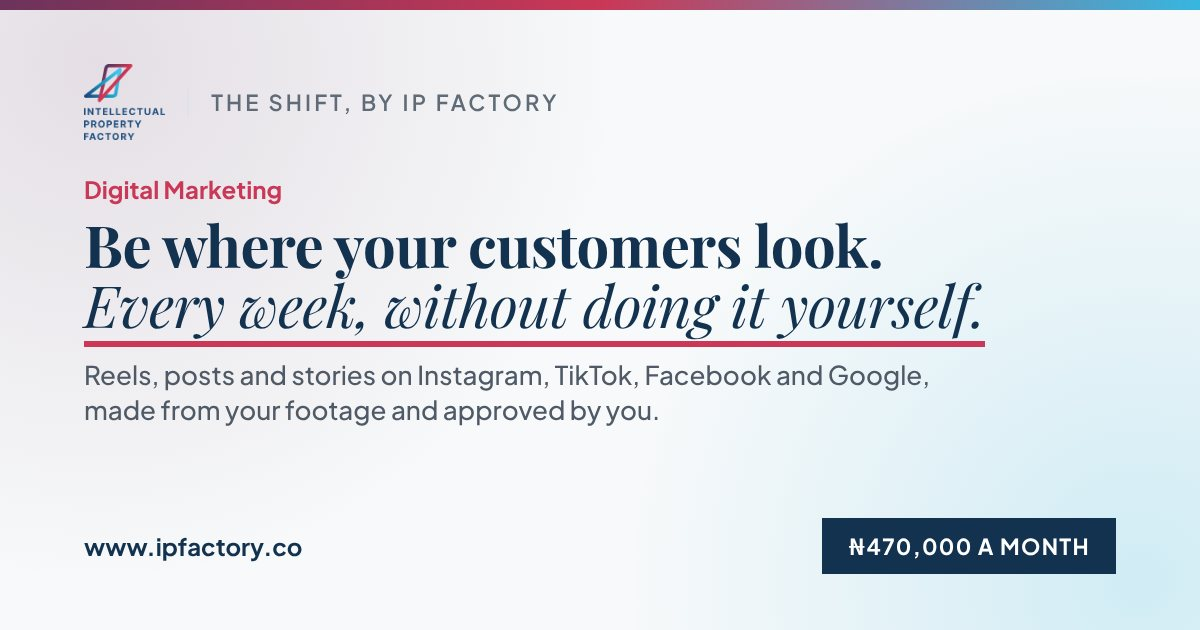
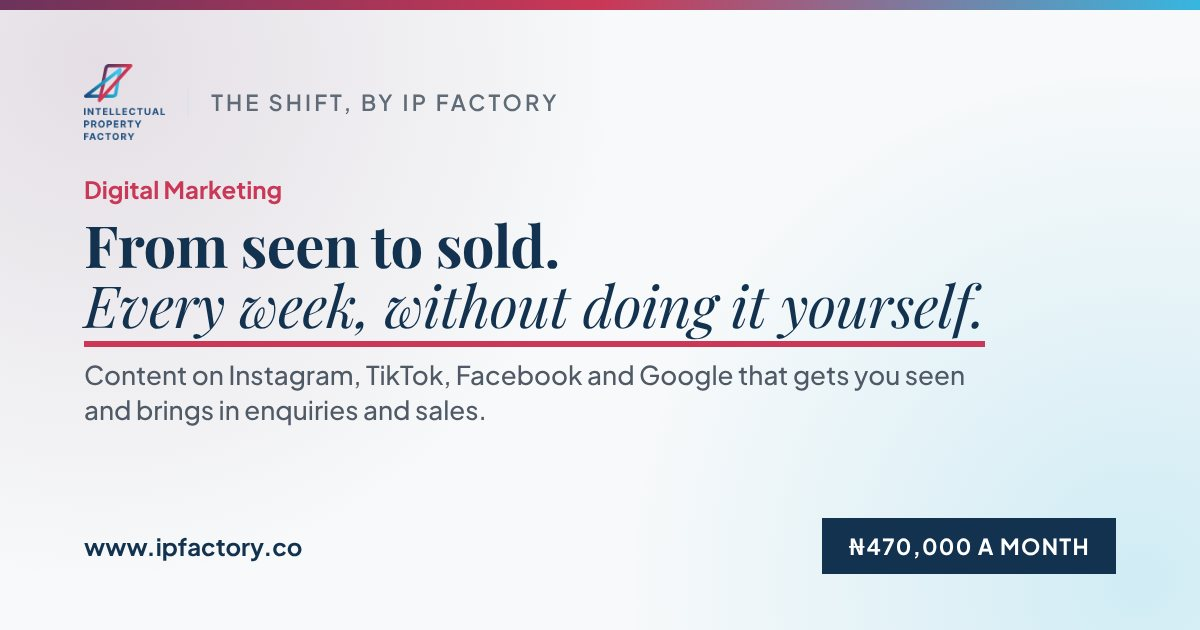
Tell Digital Marketing as the path from seen to sold
ET, 10 November 2026: Digital Marketing is sold on what it brings, not on
posts: visibility, engagement, enquiries (leads) and sales (conversion).

- Headline "From seen to sold. Every week, without doing it yourself.";
  the line under it names the four platforms and the path; the big line
  reads "Posts are not the point. Enquiries and sales are."
- The visual under the headline is a sample month at each step: seen,
  engaged, enquired, bought. The 90-day timeline now sits with the monthly
  review ("Every step, measured").
- A new question, "Will this bring me sales?", answered without promising a
  number: every piece carries an offer and a way to book or buy, and each
  month counts every step and changes what is not working.
- Who it is for, the step "Every month", what you get, the menu line, the
  share card and the closer follow. Owners whose team loses enquiries in the
  follow-up are sent to the Six-Week Fix on sales.
- In the room: the baseline is taken for reach, engagement, enquiries and
  sales, and the month 1 review names the enquiries and sales it brought.

Intended change to a test expectation: the page's headline and sub.

Claude-Session: https://claude.ai/code/session_01Q2r64sNm7T8MW5eH65ApRf

Changed region(s): [[0.0617, 0.573, 0.8017, 0.6937], [0.0617, 0.3619, 0.74, 0.4524]]

diff --git a/shared/productStories.ts b/shared/productStories.ts
@@ -391,20 +391,22 @@ export const PRODUCT_STORIES: Record<string, ProductStory> = {
   // (ET, 10 November 2026): Instagram, TikTok, Facebook and the Google Business Profile, named where each matters.
   digital_marketing: {
     art: "content",
-    promise: "Reels, posts and stories every week, approved by you before they go out.",
-    headline: ["Be where your customers look.", "Every week, without doing it yourself."],
-    sub: "Every month, 15 reels, 5 posts and 20 stories across Instagram, TikTok, Facebook and your Google Business Profile. You film short clips on your phone; we plan, edit and publish.",
-    stage: { kind: "timeline", title: "Your 90 days", items: [{ when: "Week 1", title: "Onboarding", detail: "Brand assets, account access and the content plan for month 1" }, { when: "Every week", title: "Reels, posts and stories go out", detail: "Made from your clips, each approved by you first" }, { when: "End of each month", title: "The month in numbers", detail: "What went out, what it reached, and what changes next" }, { when: "Day 90", title: "Quarter review", detail: "The 90 days in numbers, and what support looks like from here" }] },
-    statement: ["Most owners post when they remember.", "Yours goes out every week."],
+    promise: "Content every week that gets you seen and brings in enquiries and sales.",
+    headline: ["From seen to sold.", "Every week, without doing it yourself."],
+    sub: "Content on Instagram, TikTok, Facebook and Google that gets you seen, gets people talking, and turns enquiries into sales. You film short clips; we do the rest.",
+    // The path ET named (10 November 2026): visibility, engagement, leads, then conversion into sales.
+    stage: { kind: "moves", title: "Month 1, from seen to sold", rows: [{ tag: "Seen", text: "Accounts reached across your platforms", value: "9,800" }, { tag: "Engaged", text: "Likes, comments, shares and saves", value: "1,150" }, { tag: "Enquired", text: "Messages, calls and booking requests", value: "64" }, { tag: "Bought", text: "Bookings and orders from those enquiries", value: "21" }] },
+    statement: ["Posts are not the point.", "Enquiries and sales are."],
     features: [
-      { eyebrow: "From your phone", title: "You film. We do the rest.", body: "Six or more short vertical clips a week, sent by link or on WhatsApp. Within 48 hours we edit them into reels and short videos for Instagram, TikTok and Facebook, and write the posts and stories around what you sell.", visual: { kind: "moves", title: "A week of content", rows: [{ tag: "Monday", text: "You send the week's clips", value: "8 clips" }, { tag: "Tuesday", text: "Edited reels wait in your room for your yes", value: "Within 48 hours" }, { tag: "All week", text: "Reels, posts and stories go out", value: "As planned" }] } },
+      { eyebrow: "From your phone", title: "You film. We do the rest.", body: "Six or more short vertical clips a week, sent by link or on WhatsApp. Within 48 hours we edit them into reels and short videos for Instagram, TikTok and Facebook, and write the posts and stories around what you sell, each with a way to book or buy.", visual: { kind: "moves", title: "A week of content", rows: [{ tag: "Monday", text: "You send the week's clips", value: "8 clips" }, { tag: "Tuesday", text: "Edited reels wait in your room for your yes", value: "Within 48 hours" }, { tag: "All week", text: "Reels, posts and stories go out", value: "As planned" }] } },
       { eyebrow: "Your yes first", title: "Nothing goes out without your approval.", body: "Each piece waits in your room. Watch it on your phone, approve it, or ask for changes. Two rounds of changes are included.", visual: { kind: "moves", title: "In your room this week", rows: [{ tag: "Approved", text: "Reel: the Saturday brunch offer", value: "Out on Friday" }, { tag: "Your yes", text: "Reel: behind the counter", value: "Sent today" }, { tag: "Changes", text: "Post: the new opening hours", value: "Round 1 of 2" }] } },
-      { eyebrow: "The numbers", title: "Measured against where you started.", body: "Before the first post we record where you start on each platform: followers, reach, and the calls and bookings they bring. Each month you see what went out, what it reached and what it brought in, and what changes next month.", visual: { kind: "table", title: "Month 1 review", columns: ["", "Before", "Month 1"], rows: [["Followers, all platforms", "1,240", "1,390"], ["Accounts reached", "3,100", "9,800"], ["Calls and bookings", "9", "21"]] } },
+      { eyebrow: "Every step, measured", title: "How many saw you, engaged, enquired and bought.", body: "Before the first post we record where you start on each platform. At the end of each month you see every step, from views to sales, and what changes next month to turn more of them into customers.", visual: { kind: "timeline", title: "Your 90 days", items: [{ when: "Week 1", title: "Onboarding", detail: "Brand assets, account access, and where you start on each platform" }, { when: "Every week", title: "Reels, posts and stories go out", detail: "Made from your clips, each approved by you first" }, { when: "End of each month", title: "From seen to sold, in numbers", detail: "Seen, engaged, enquired, bought, and what changes next" }, { when: "Day 90", title: "Quarter review", detail: "The 90 days in numbers, and what support looks like from here" }] } },
     ],
-    forYou: ["Your customers find you on social media or on Google", "You know you should post more, and never have the time", "You want to see what your posts bring in, month by month"],
-    notForYou: [{ text: "People already see you but do not buy. Start with the Six-Week Fix on sales.", productId: "six_week_fix" }],
+    forYou: ["Your customers find you on social media or on Google", "You want more people to see you, enquire and buy", "You want to know what your content brings in, from views to sales"],
+    notForYou: [{ text: "Plenty of people enquire, but your team loses them in the follow-up. Start with the Six-Week Fix on sales.", productId: "six_week_fix" }],
     faq: [
       { q: "How do I pay?", a: `${priceTerms(productById("digital_marketing")!.price)} You pay the first when we start, then before day 31 and day 61, by transfer or card.` },
+      { q: "Will this bring me sales?", a: "That is what it is built for: every piece carries one of your offers and a way to book or buy. Each month we count every step, from views to enquiries to sales, and change what is not working." },
       { q: "Which platforms do you cover?", a: "Instagram, TikTok and Facebook, and your Google Business Profile: the listing customers see when they find you on Google Search and Maps." },
       { q: "Who films the videos?", a: "You do, on your phone: six or more short vertical clips a week, sent by link or on WhatsApp. We edit them within 48 hours." },
       { q: "Will you post anything without asking me?", a: "No. You approve every reel, post and story in your room before it goes out, and two rounds of changes are included." },
@@ -412,7 +414,7 @@ export const PRODUCT_STORIES: Record<string, ProductStory> = {
       { q: "Who will I work with?", a: "A Digital Marketer, who plans the content, publishes it and reads the numbers, and a Content Producer, who edits your clips. You reach both on WhatsApp." },
       { q: "What happens after three months?", a: "At the quarter review we go through the 90 days in numbers and agree what support looks like from here. You can stop then." },
     ],
-    closer: "Be seen every week.",
+    closer: "Turn attention into sales.",
   },
 };
 

diff --git a/api/index.js b/api/index.js
@@ -408,9 +408,9 @@ var PRODUCTS = [
     name: "Digital Marketing",
     way: "monthly_service",
     needs: ["sales"],
-    short: "Reels, posts and stories on Instagram, TikTok, Facebook and Google, made from your footage and approved by you.",
+    short: "Content on Instagram, TikTok, Facebook and Google that gets you seen and brings in enquiries and sales.",
     forWhom: "Owners whose customers find them on social media or on Google, who know they should post more and never have the time.",
-    youGet: ["15 reels, 5 posts and 20 stories a month across your platforms, planned with you", "Your clips edited within 48 hours", "Nothing published without your approval", "A review of the numbers each month, and of the quarter"],
+    youGet: ["15 reels, 5 posts and 20 stories a month across your platforms, planned with you", "Your clips edited within 48 hours", "Nothing published without your approval", "Each month, every step from views to enquiries and sales, and what changes next"],
     price: { kind: "monthly", perMonth: 47e4, months: 3 },
     delivery: "Every week, for three months.",
     buy: "after_call",
@@ -482,7 +482,7 @@ var DIGITAL_MARKETING = {
   stages: [
     { title: "Onboarding", summary: "Brand assets, account access and the content plan for month 1.", from: 0, to: 6 },
     { title: "Month 1", summary: "Reels, posts and stories go out each week; you approve before anything is published.", from: 7, to: 29 },
-    { title: "Month 1 review", summary: "What went out, what it reached, and what changes for month 2.", from: 30, to: 30 },
+    { title: "Month 1 review", summary: "What went out, who it reached, the enquiries and sales it brought, and what changes for month 2.", from: 30, to: 30 },
     { title: "Month 2", summary: "The second month's content, shaped by the month 1 numbers.", from: 31, to: 59 },
     { title: "Month 3", summary: "The third month's content, and the plan for after the quarter.", from: 60, to: 89 },
     { title: "Quarter review", summary: "The 90 days in numbers, and what support looks like from here.", from: 90, to: 90 }
@@ -501,7 +501,7 @@ var DIGITAL_MARKETING = {
   ],
   teamActions: [
     { week: 1, order: 7, title: "Content plan for month 1", detail: "The reels, posts and stories for the month, by week, with the offers they carry." },
-    { week: 1, order: 8, title: "Baseline numbers", detail: "Followers, reach, calls and bookings on each platform today, to measure against." }
+    { week: 1, order: 8, title: "Baseline numbers", detail: "Reach, engagement, enquiries and sales from each platform today, to measure against." }
   ],
   sessions: [
     { kind: "other", title: "Kick-off", week: 1, order: 0, durationMinutes: 45, agenda: "The 90 days, the content plan, who does what, and the access we need." },

diff --git a/test/client/pages/services.ui.test.tsx b/test/client/pages/services.ui.test.tsx
@@ -134,10 +134,13 @@ describe("a service page (/services/:slug), told as a story", () => {
 
   it("tells Digital Marketing as its programme runs: month by month, the client's own clips, nothing out without their yes (R35)", () => {
     at("/services/digital-marketing");
-    expect(screen.getByRole("heading", { level: 1 }).textContent).toBe("Be where your customers look.Every week, without doing it yourself.");
+    expect(screen.getByRole("heading", { level: 1 }).textContent).toBe("From seen to sold.Every week, without doing it yourself.");
     // The whole digital space (ET, 10 November 2026), each platform named.
-    expect(screen.getByText("Every month, 15 reels, 5 posts and 20 stories across Instagram, TikTok, Facebook and your Google Business Profile. You film short clips on your phone; we plan, edit and publish.")).toBeTruthy();
+    expect(screen.getByText("Content on Instagram, TikTok, Facebook and Google that gets you seen, gets people talking, and turns enquiries into sales. You film short clips; we do the rest.")).toBeTruthy();
     expect(screen.getByText("Which platforms do you cover?")).toBeTruthy();
+    // Sold on what it brings (ET, 10 November 2026): seen, engaged, enquired, bought.
+    for (const step of ["Seen", "Engaged", "Enquired", "Bought"]) expect(screen.getByText(step)).toBeTruthy();
+    expect(screen.getByText("Will this bring me sales?")).toBeTruthy();
     expect(screen.getByText("Monthly Service · Sales and marketing")).toBeTruthy();
     expect(screen.getByText("Twenty minutes, by phone or video. We send the link for the first month after the call.")).toBeTruthy();
     expect(screen.getByText("₦470,000 a month for three months, each paid before the month starts.")).toBeTruthy();

diff --git a/shared/engagementTypes.ts b/shared/engagementTypes.ts
@@ -62,7 +62,7 @@ export const DIGITAL_MARKETING: DatedEngagementType = {
   stages: [
     { title: "Onboarding", summary: "Brand assets, account access and the content plan for month 1.", from: 0, to: 6 },
     { title: "Month 1", summary: "Reels, posts and stories go out each week; you approve before anything is published.", from: 7, to: 29 },
-    { title: "Month 1 review", summary: "What went out, what it reached, and what changes for month 2.", from: 30, to: 30 },
+    { title: "Month 1 review", summary: "What went out, who it reached, the enquiries and sales it brought, and what changes for month 2.", from: 30, to: 30 },
     { title: "Month 2", summary: "The second month's content, shaped by the month 1 numbers.", from: 31, to: 59 },
     { title: "Month 3", summary: "The third month's content, and the plan for after the quarter.", from: 60, to: 89 },
     { title: "Quarter review", summary: "The 90 days in numbers, and what support looks like from here.", from: 90, to: 90 },
@@ -81,7 +81,7 @@ export const DIGITAL_MARKETING: DatedEngagementType = {
   ],
   teamActions: [
     { week: 1, order: 7, title: "Content plan for month 1", detail: "The reels, posts and stories for the month, by week, with the offers they carry." },
-    { week: 1, order: 8, title: "Baseline numbers", detail: "Followers, reach, calls and bookings on each platform today, to measure against." },
+    { week: 1, order: 8, title: "Baseline numbers", detail: "Reach, engagement, enquiries and sales from each platform today, to measure against." },
   ],
   sessions: [
     { kind: "other", title: "Kick-off", week: 1, order: 0, durationMinutes: 45, agenda: "The 90 days, the content plan, who does what, and the access we need." },

diff --git a/shared/products.ts b/shared/products.ts
@@ -454,9 +454,9 @@ export const PRODUCTS: readonly Product[] = [
     name: "Digital Marketing",
     way: "monthly_service",
     needs: ["sales"],
-    short: "Reels, posts and stories on Instagram, TikTok, Facebook and Google, made from your footage and approved by you.",
+    short: "Content on Instagram, TikTok, Facebook and Google that gets you seen and brings in enquiries and sales.",
     forWhom: "Owners whose customers find them on social media or on Google, who know they should post more and never have the time.",
-    youGet: ["15 reels, 5 posts and 20 stories a month across your platforms, planned with you", "Your clips edited within 48 hours", "Nothing published without your approval", "A review of the numbers each month, and of the quarter"],
+    youGet: ["15 reels, 5 posts and 20 stories a month across your platforms, planned with you", "Your clips edited within 48 hours", "Nothing published without your approval", "Each month, every step from views to enquiries and sales, and what changes next"],
     price: { kind: "monthly", perMonth: 470_000, months: 3 },
     delivery: "Every week, for three months.",
     buy: "after_call",

diff --git a/client/src/pages/ProductPage.tsx b/client/src/pages/ProductPage.tsx
@@ -40,7 +40,7 @@ export function stepsFor(product: Product, price: PriceModel): { title: string; 
   if (product.id === "digital_marketing") return [
     { title: "Talk to us first", body: `A free 20-minute call about your customers and what you sell. If it fits, we send ${firstPaymentLink(product)} after it.` },
     { title: "Week 1: the plan", body: "A kick-off call, the month's content plan, and your first clips. You film on your phone; we edit within 48 hours." },
-    { title: "Every month", body: "15 reels, 5 posts and 20 stories, each approved by you before it goes out, and a review of the numbers at the month's end." },
+    { title: "Every month", body: "15 reels, 5 posts and 20 stories, each approved by you before it goes out, and at the month's end every step counted, from views to sales." },
   ];
   if (product.way === "monthly_service") return [
     { title: "Talk to us first", body: "A free 20-minute call to agree what you need each month." },

diff --git a/docs/product/01-prd.md b/docs/product/01-prd.md
@@ -170,7 +170,7 @@ allows IP Factory to suspend for unresolved payment issues).
 | Six-Week Fix (Margin, Sales, Cash and Pricing, Delegation and Structure) | Six-Week Fix | ₦1,500,000 | Six weeks | Talk to an expert |
 | Monthly Accounts and Cash Report | Monthly Service | ₦600,000 a quarter | By the 10th of each month | Talk to an expert |
 | Monthly Adviser Review | Monthly Service | ₦450,000 a quarter | One Session a month | Talk to an expert |
-| Digital Marketing (ET, 6 November 2026; the programme of the first client's engagement) | Monthly Service | ₦470,000 a month | 15 reels, 5 posts and 20 stories a month for three months, across Instagram, TikTok, Facebook and the Google Business Profile; nothing published without the owner's approval | Talk to an expert |
+| Digital Marketing (ET, 6 November 2026; the programme of the first client's engagement) | Monthly Service | ₦470,000 a month | 15 reels, 5 posts and 20 stories a month for three months, across Instagram, TikTok, Facebook and the Google Business Profile, sold on what it brings: seen, engaged, enquired, bought, each counted monthly; nothing published without the owner's approval | Talk to an expert |
 
 **Delivery promise:** we confirm the delivery date once the records are complete; if we cannot deliver as agreed, we make
 it right in line with the Terms (a refund, a service credit or an agreed alternative). The site never promises an

diff --git a/docs/product/08-decision-log.md b/docs/product/08-decision-log.md
@@ -8,6 +8,7 @@ now the Business Review (₦600,000), and the JUMP programme views have been rem
 
 | Decision | Taken by |
 |---|---|
+| Digital Marketing is sold on what it brings, not on posts: visibility, engagement, enquiries (leads) and sales (conversion), the path its page tells ("From seen to sold") and each month's review counts | ET, 10 November 2026 |
 | On the home page, "Sales are flat and I need more customers every month" leads to Digital Marketing (it led to the Six-Week Fix) | ET, 10 November 2026 |
 | Digital Marketing covers the whole digital space, not one platform: Instagram, TikTok, Facebook and the Google Business Profile, each named on its page; new clients are asked for access to all four | ET, 10 November 2026 |
 | Digital Marketing goes on the menu now (R35, brought forward from Release 3) as a Monthly Service under Sales and marketing, paid month by month: ₦470,000 a month for three months, each before the month starts; its page tells the first client's programme; the product and its engagement type are both named Digital Marketing | ET, 10 November 2026 (asked for the page; the placement is shown in its preview) |
